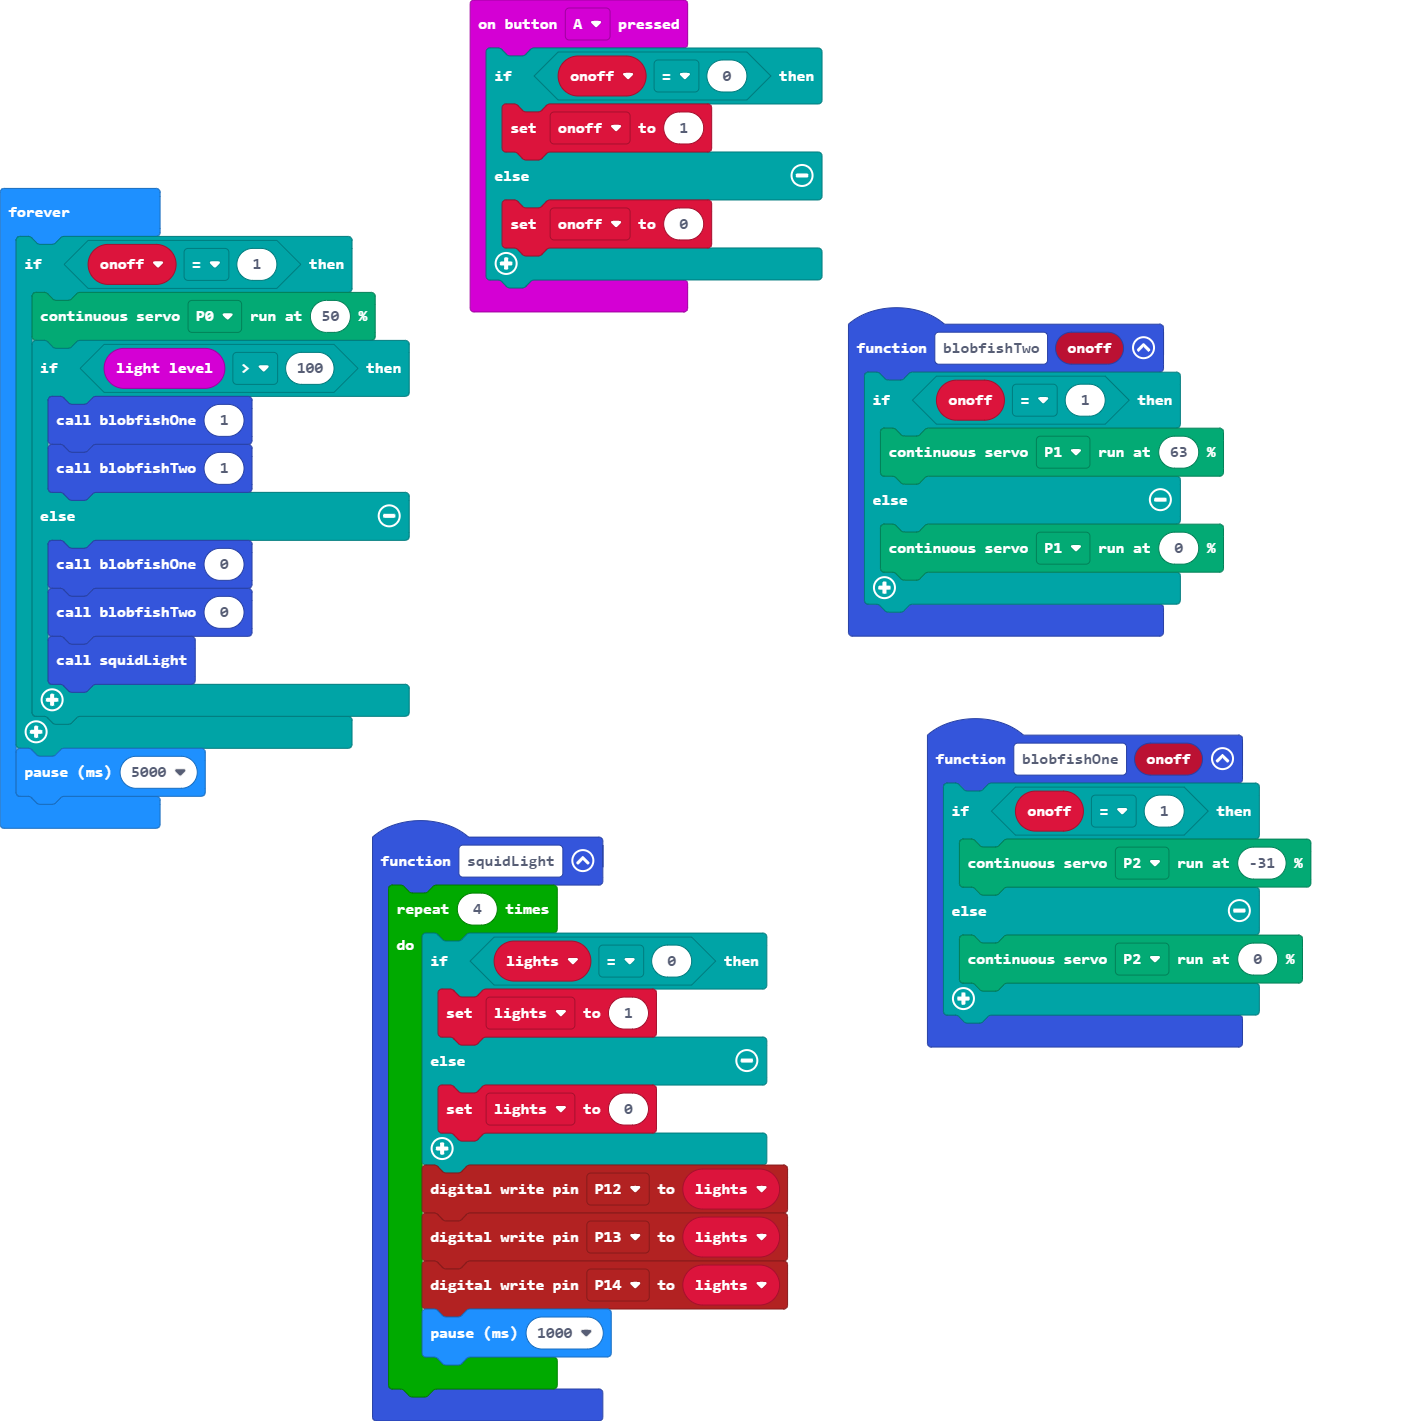
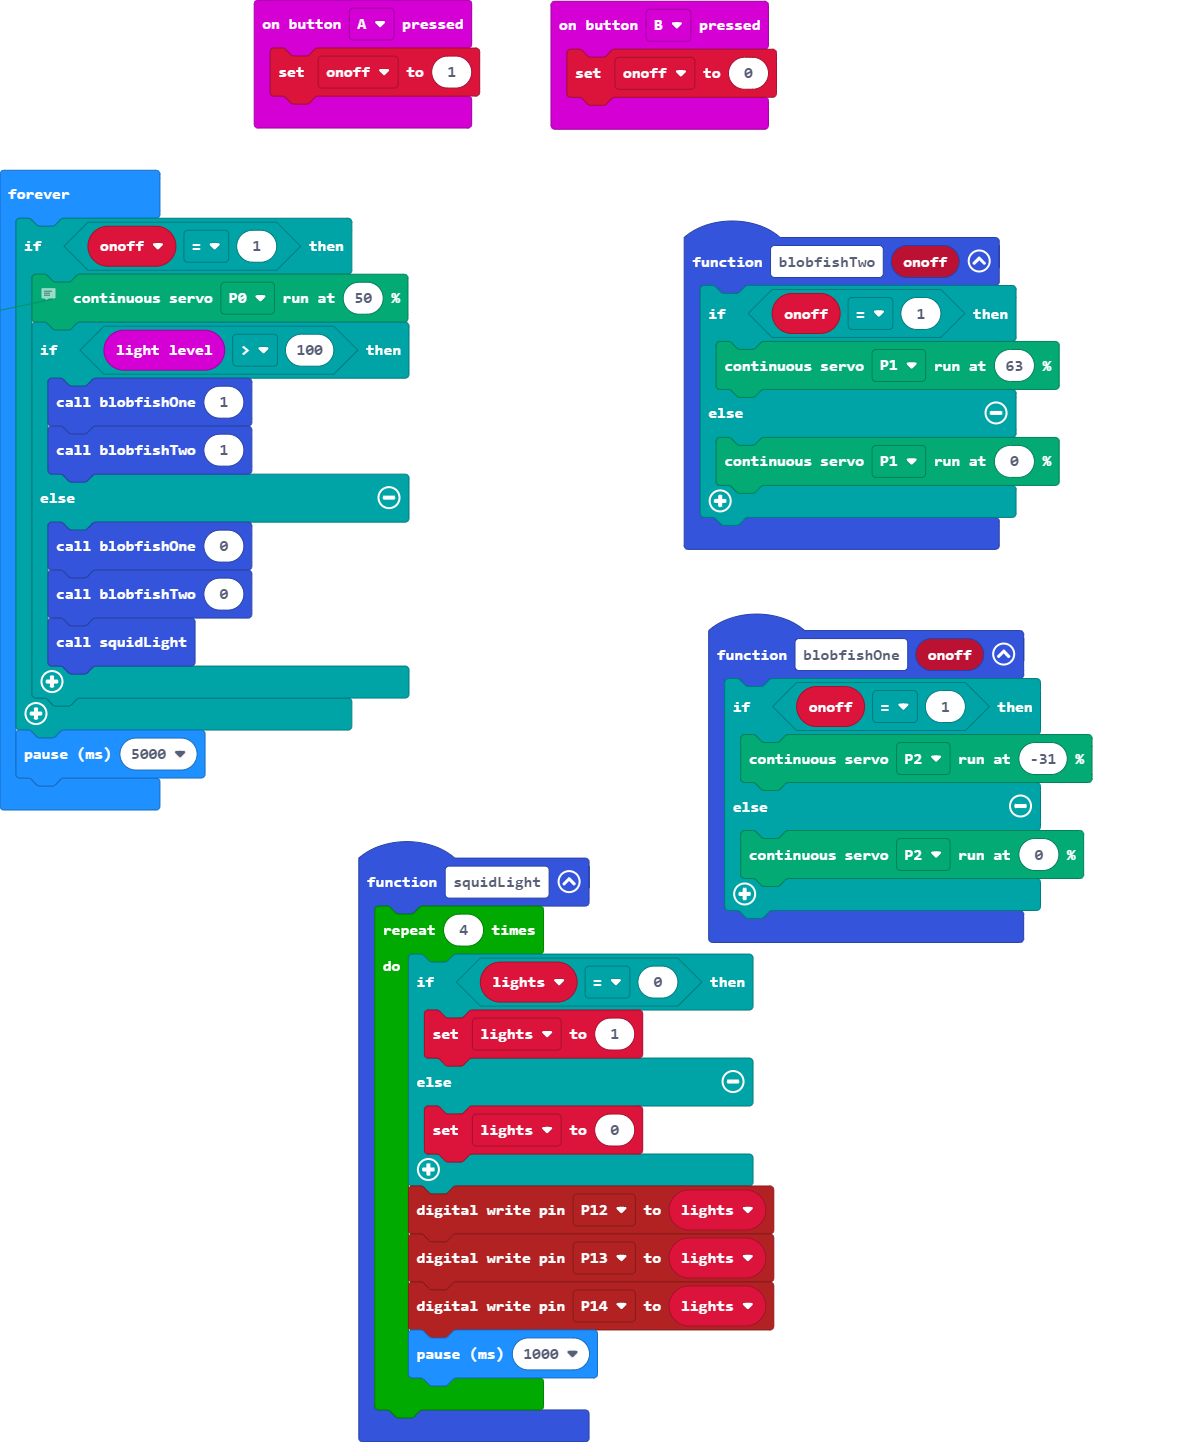
Update main.blocks, main.ts

diff --git a/main.ts b/main.ts
@@ -1,11 +1,7 @@
 let onoff = 0
 let lights = 0
 input.onButtonPressed(Button.A, function () {
-    if (onoff == 0) {
-        onoff = 1
-    } else {
-        onoff = 0
-    }
+    onoff = 1
 })
 function squidLight () {
     for (let index = 0; index < 4; index++) {
@@ -27,6 +23,9 @@ function blobfishOne (onoff: number) {
         servos.P2.run(0)
     }
 }
+input.onButtonPressed(Button.B, function () {
+    onoff = 0
+})
 function blobfishTwo (onoff: number) {
     if (onoff == 1) {
         servos.P1.run(63)
@@ -36,6 +35,7 @@ function blobfishTwo (onoff: number) {
 }
 basic.forever(function () {
     if (onoff == 1) {
+        // starfish
         servos.P0.run(50)
         if (input.lightLevel() > 100) {
             blobfishOne(1)
